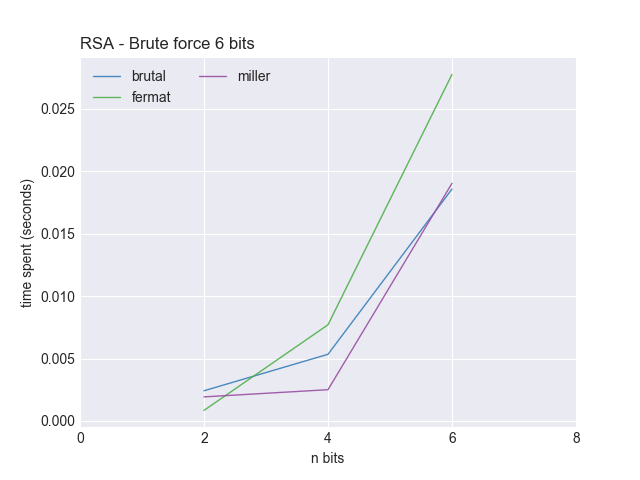
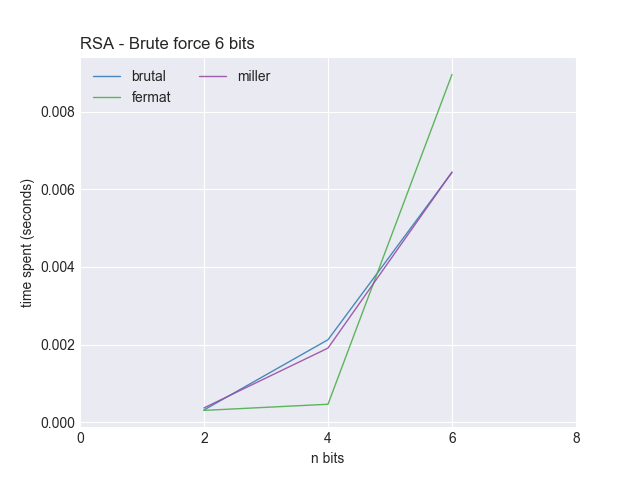
24bits

diff --git a/rsa.py b/rsa.py
@@ -104,14 +104,13 @@ class Rsa:
         # a phi(n) que, pela equacao é igual a (p-1)*(q-1)
         phi = (p - 1) * (q - 1)
         # https://crypto.stackexchange.com/questions/3110/impacts-of-not-using-rsa-exponent-of-65537
-        e = 65537  # self.generate_prime(limit=phi)
+        e = self.generate_prime(limit=phi) # A recomendação é ser o número 65537
 
         # Acha um inteiro "e" em que "e" e "phi" são coprimos
-        """
         while gcd(e, phi) != 1:
             print("Não é coprimo, tentando de novo. e, phi", e, phi)
             e = self.generate_prime(limit=phi)
-        """
+
         self.p, self.q, self.e, self.phi, self.n = p, q, e, phi, n
         self.publicKey = [e, n]
         self.d = find_inverse(self.e, self.phi)

diff --git a/file_test.py b/file_test.py
@@ -1,6 +1,6 @@
 from rsa import Rsa
 from files import read_message, read_public_key
-bit = 6
+bit = 24
 # Faz a leitura do arquivo de chave .pem
 publicKey = read_public_key(bit)
 
